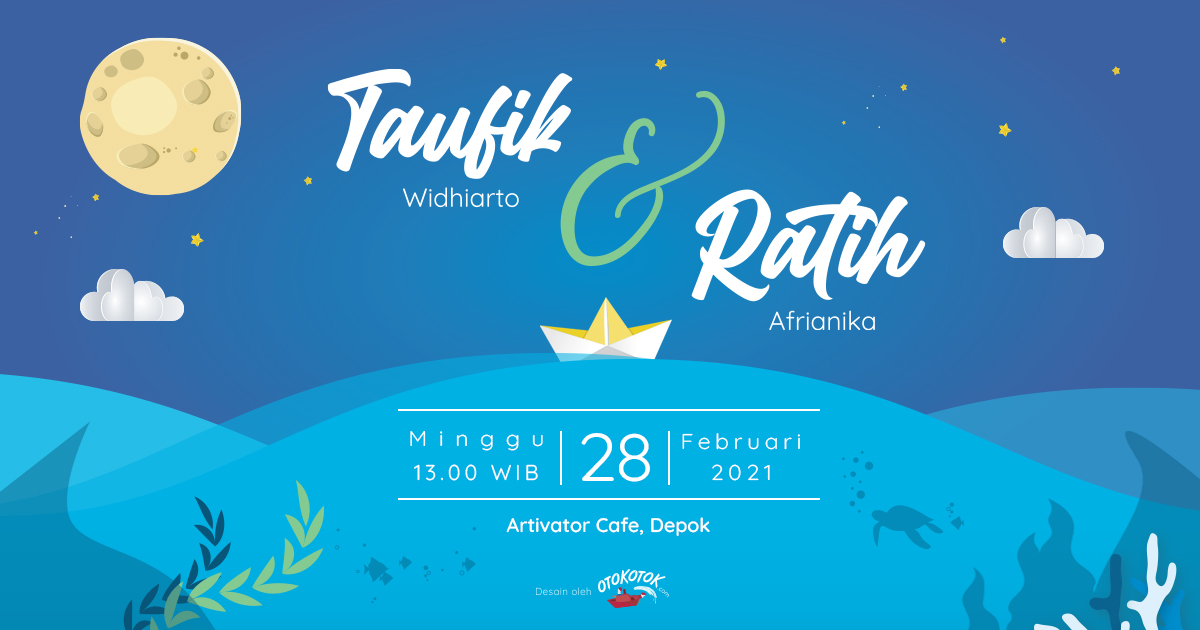
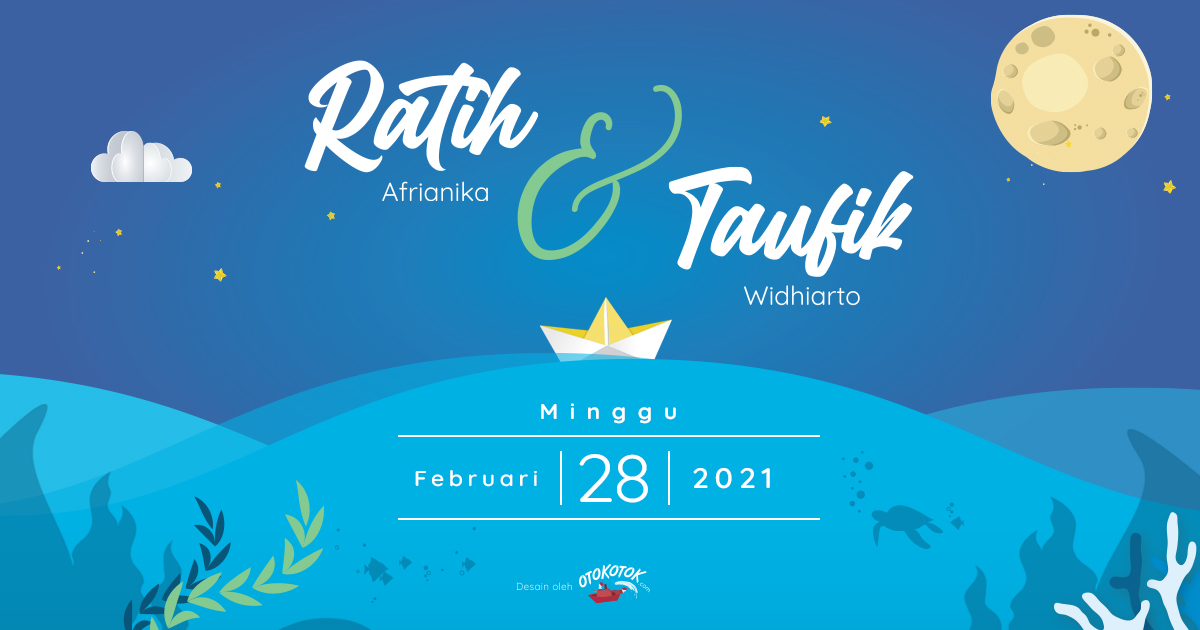
update posisi

diff --git a/index.html b/index.html
@@ -46,18 +46,18 @@
 
 <html>
   <head>
-    <title>The Wedding of Taufik dan Ratih, 28 Februari 2021</title>
+    <title>The Wedding of Ratih dan Taufik, 28 Februari 2021</title>
     <meta
       name="description"
-      content="Pernikahan Taufik dan Ratih tgl 28 Februari 2021 jam 13.00 s/d 14.30 di ARTiVATOR Cafe, Depok"
+      content="Pernikahan Ratih dan Taufik tanggal 28 Februari 2021 jam 13.00 s/d 14.30 di ARTiVATOR Cafe, Depok"
     />
     <meta
       property="og:title"
-      content="The Wedding of Taufik dan Ratih, 28 Februari 2021"
+      content="The Wedding of Ratih dan Taufik, 28 Februari 2021"
     />
     <meta
       property="og:description"
-      content="Pernikahan Taufik dan Ratih tgl 28 Februari 2021 jam 13.00 s/d 14.30 di ARTiVATOR Cafe, Depok"
+      content="Pernikahan Ratih dan Taufik tanggal 28 Februari 2021 jam 13.00 s/d 14.30 di ARTiVATOR Cafe, Depok"
     />
     <meta property="og:url" content="https://www.otokotok.com/" />
     <meta
@@ -71,11 +71,11 @@
     />
     <meta
       name="twitter:title"
-      content="The Wedding of Taufik dan Ratih, 28 Februari 2021"
+      content="The Wedding of Ratih dan Taufik, 28 Februari 2021"
     />
     <meta
       name="twitter:description"
-      content="Pernikahan Taufik dan Ratih tgl 28 Februari 2021 jam 13.00 s/d 14.30 di ARTiVATOR Cafe, Depok"
+      content="Pernikahan Ratih dan Taufik tgl 28 Februari 2021 jam 13.00 s/d 14.30 di ARTiVATOR Cafe, Depok"
     />
     <meta
       name="twitter:image"
@@ -134,14 +134,14 @@
           </div>
 
           <div class="wedding">
-            <div class="name-wrapper name-aboot">
-              <span class="firstname">Taufik</span>
-              <span class="lastname">Widhiarto</span>
-            </div>
-            <span class="and">&#38;</span>
             <div class="name-wrapper name-ratih">
               <span class="firstname">Ratih</span>
               <span class="lastname">Afrianika</span>
+            </div>
+            <span class="and">&#38;</span>
+            <div class="name-wrapper name-aboot">
+              <span class="firstname">Taufik</span>
+              <span class="lastname">Widhiarto</span>
             </div>
           </div>
           <div class="event-date">

diff --git a/styles/detail.css b/styles/detail.css
@@ -97,14 +97,14 @@
 
 .name-aboot {
   position: absolute;
-  top: 0;
-  left: 20px;
+  right: 44px;
+  bottom: 0;
 }
 
 .name-ratih {
   position: absolute;
-  right: 44px;
-  bottom: 0;
+  top: 0;
+  left: 20px;
 }
 
 @keyframes textshadow {
